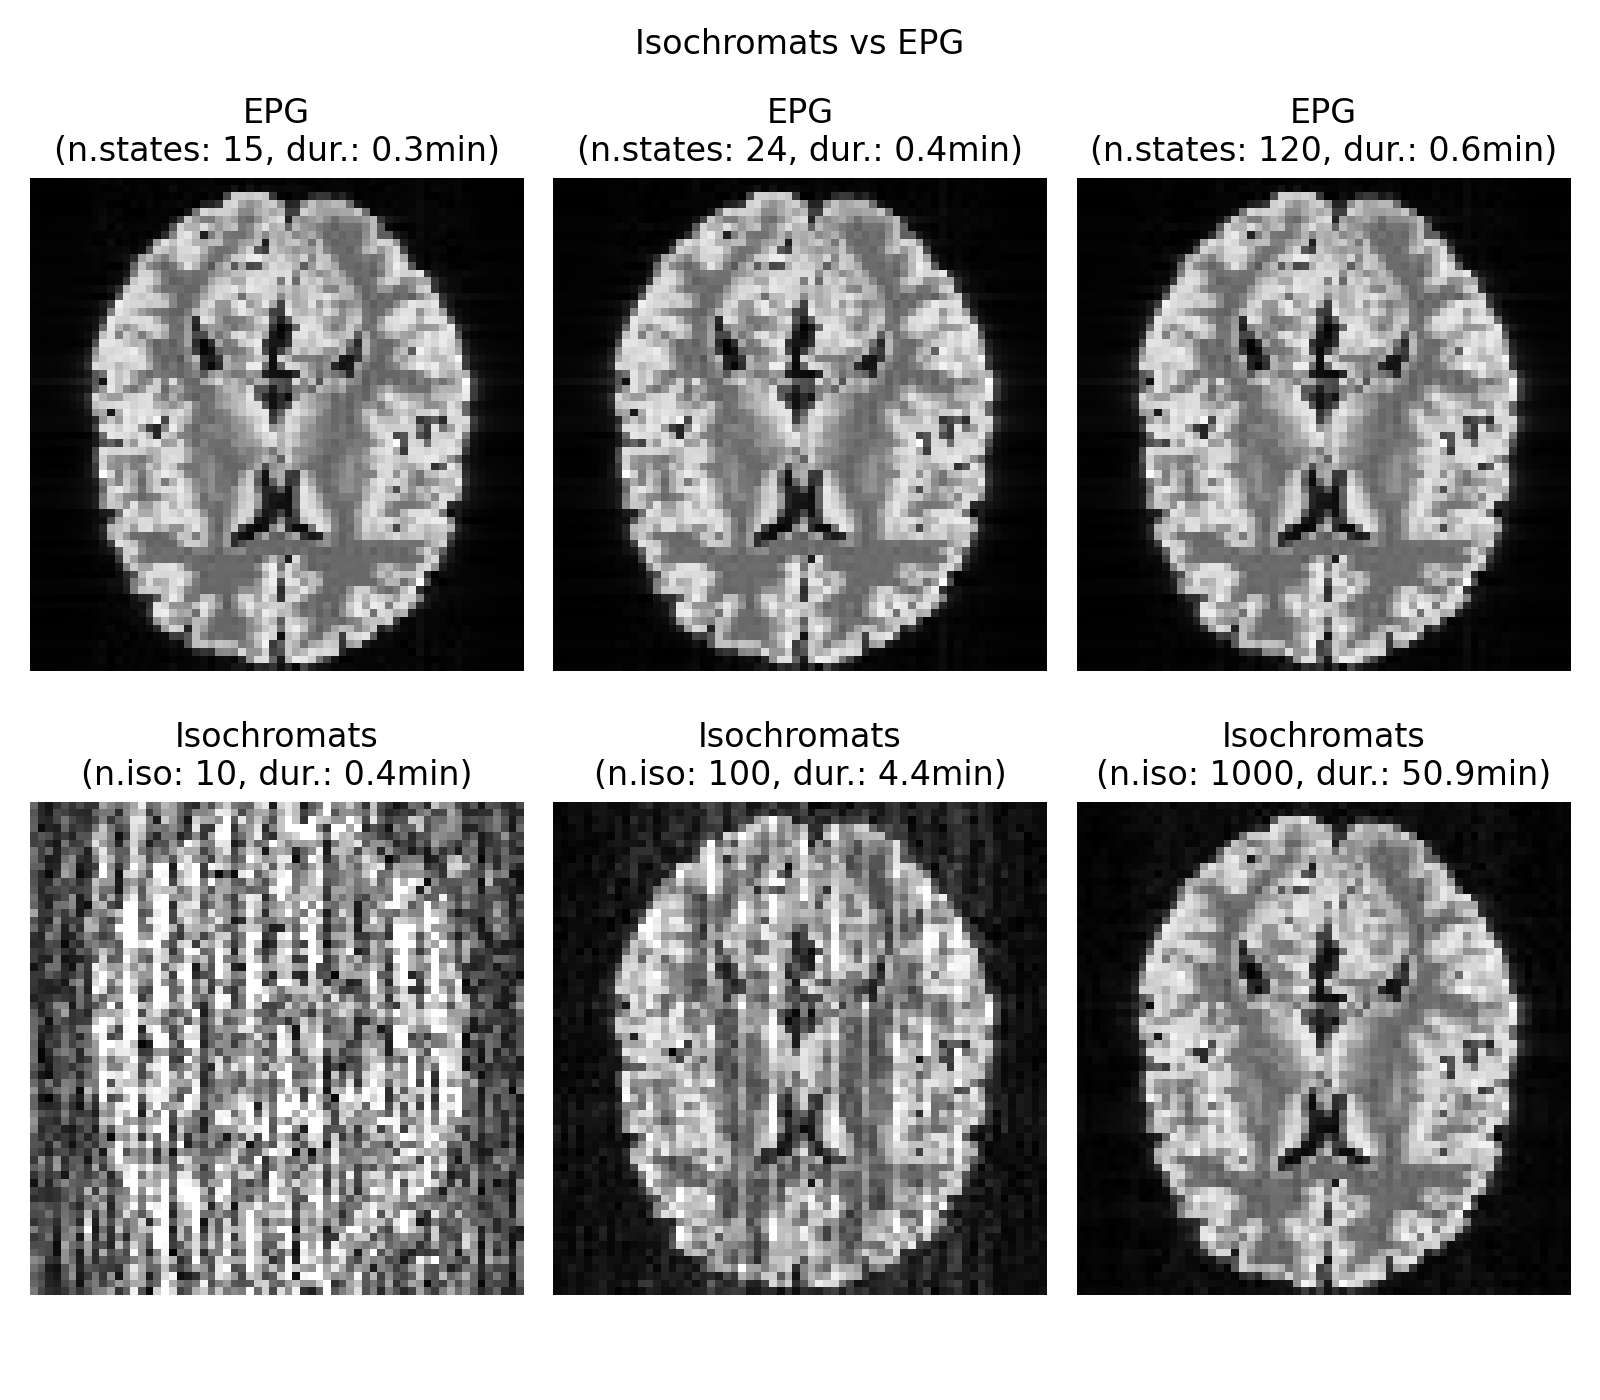
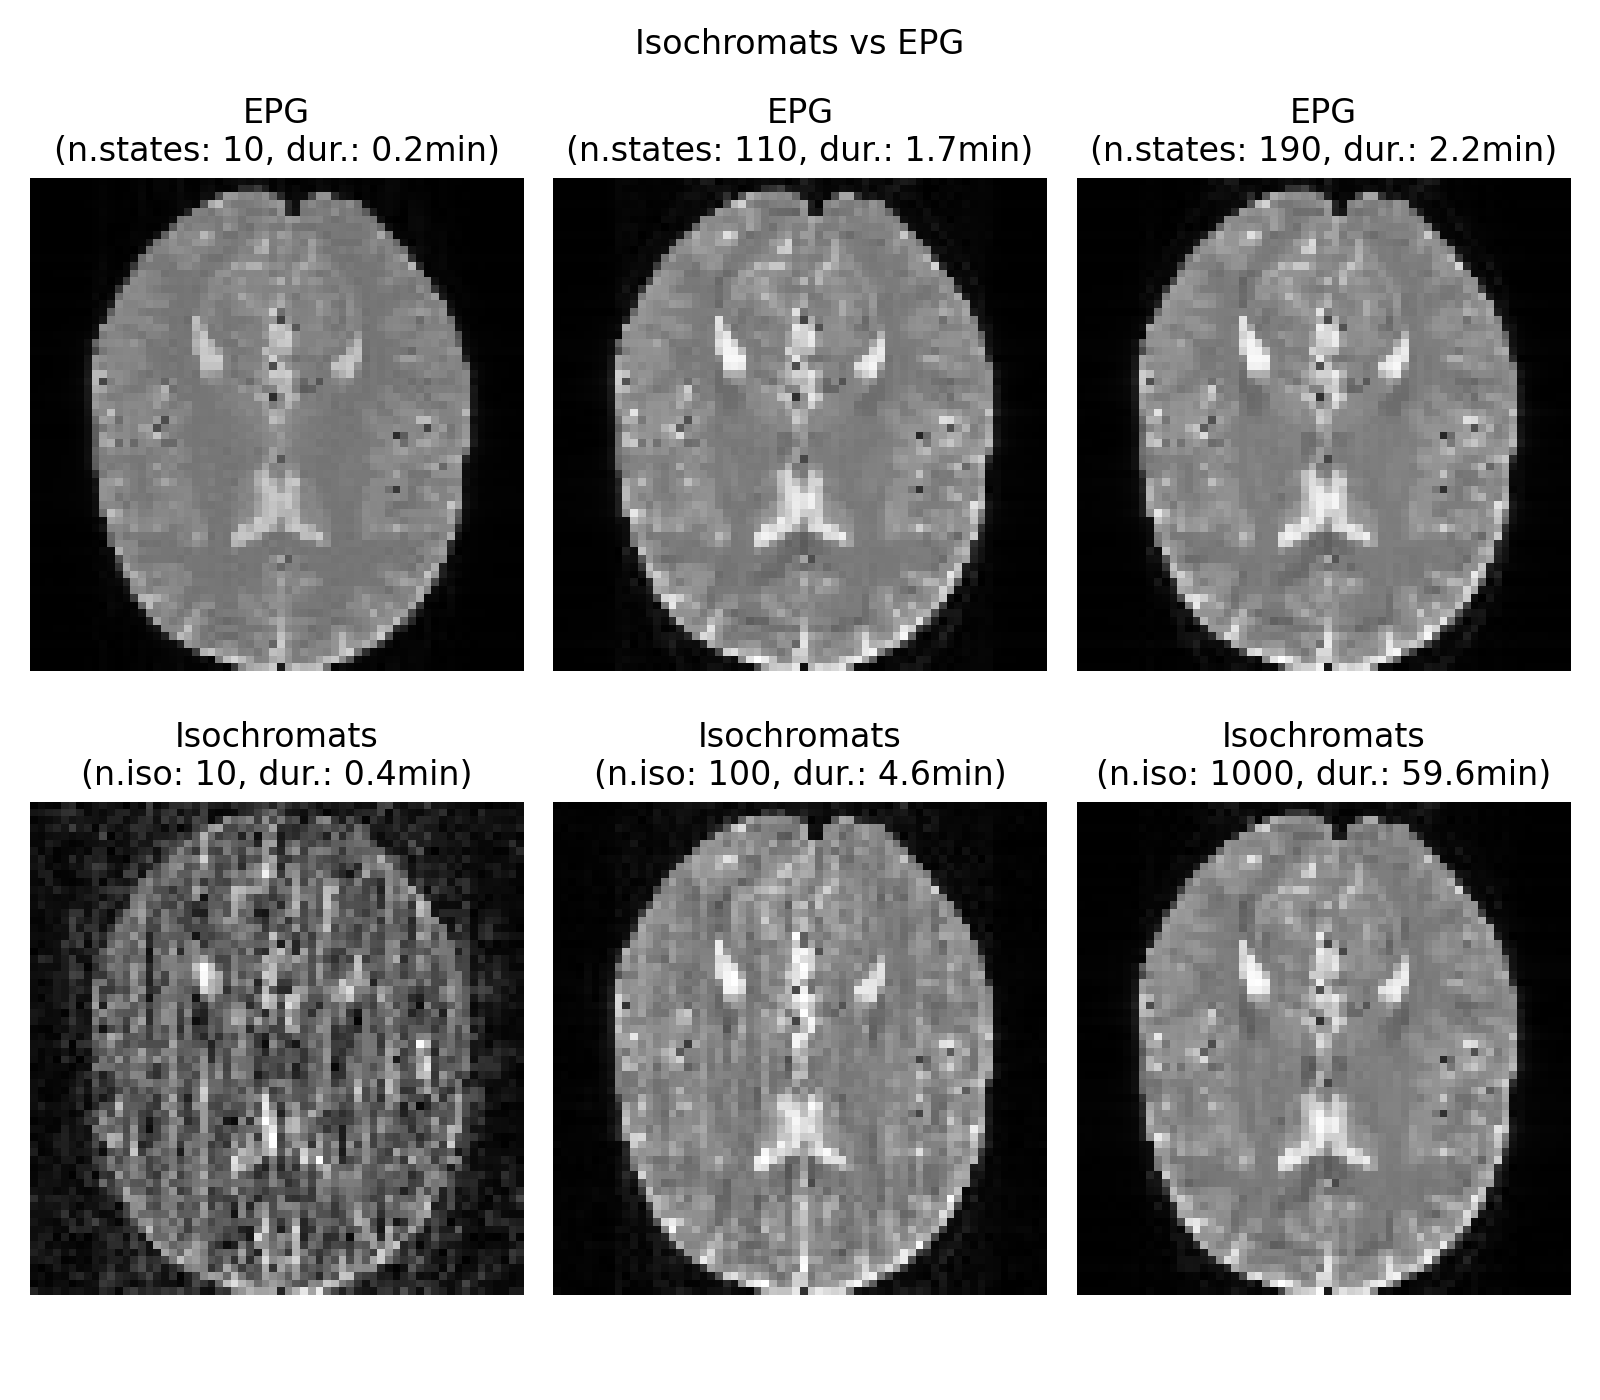
update examples/gradient

diff --git a/examples/gradient/isochromats_vs_epg_2d.py b/examples/gradient/isochromats_vs_epg_2d.py
@@ -1,20 +1,3 @@
-"""
-Simulation of a 64x64 brain phantom with readout and phase encoding gradients.
-We compare EPG + arbitrary gradients with isochromats simulations.
-(Note: the isochromats simulation may take a while)
-
-This is an attempt at implementing the brain phantom simulation from:
-    Endres, Jonathan, Simon Weinmüller, Hoai Nam Dang, et Moritz Zaiss. 
-    « Phase Distribution Graphs for Fast, Differentiable, and Spatially Encoded Bloch Simulations of Arbitrary MRI Sequences ». 
-    Magnetic Resonance in Medicine 92, nᵒ 3 (2024): 1189‑1204. 
-    https://doi.org/10.1002/mrm.30055.
-
-Brain phantom:
-    Colin 27 Average Brain 2008
-    Copyright (C) 1993–2009 Louis Collins, McConnell Brain Imaging Centre, Montreal Neurological Institute, McGill University.
-    https://nist.mni.mcgill.ca/category/atlas/
-"""
-
 import pathlib
 import time
 import numpy as np
@@ -26,6 +9,12 @@ NAX = np.newaxis
 random = np.random #.RandomState(0)
 
 # brain phantom
+"""
+Source:
+    Colin 27 Average Brain 2008
+    Copyright (C) 1993–2009 Louis Collins, McConnell Brain Imaging Centre, Montreal Neurological Institute, McGill University.
+    https://nist.mni.mcgill.ca/category/atlas/
+"""
 HERE = pathlib.Path(__file__).parent
 wm, gm, csf = np.load(HERE / 'brain.npy')
 
@@ -38,7 +27,7 @@ csf = ndimage.zoom(csf, zoom)
 mask = np.max([wm, gm, csf], axis=0) > 1e-5
 
 # acquisition
-FA = 60 # degrees
+FA = 30 # degrees
 TR = 10 # ms
 FOV = 200e-3 # m
 nread, nphase = mask.shape
@@ -60,11 +49,12 @@ print('EPG')
 # set proton density and T2* decay
 init = epg.System(weights=pds, modulation=-1/np.array(T2p))
 # rf pulse and ADC with phase offset
-rf = [epg.T(FA, 117 * i * (i + 1)/2) for i in range(nphase)]
+rf = [epg.T(FA, 0)] * nphase
+# rf = [epg.T(FA, 117 * i * (i + 1)/2) for i in range(nphase)] # rf spoiling
 adc = [epg.Imaging(pixels, voxel_size=pixsize, phase=-rf[i].phi) for i in range(nphase)]
 # T1/T2 and time accumulation (for T2* and B0)
-rlx = epg.E(TR, T1, T1)
-rlx *= epg.C(TR) # time accumulation
+rlx = epg.E(TR/nread, T1, T2)
+rlx *= epg.C(TR/nread) # time accumulation
 # readout gradient 
 kx = np.array([2 * np.pi / FOV, 0]) # rad/m
 gxpre = epg.S(-kx * nread/2)
@@ -78,11 +68,11 @@ gp2 = [epg.S(-kp * i) if i !=0 else epg.NULL for i in range(-nphase//2, nphase//
 seq = [init] + [[rf[i], gxpre, gp1[i]] + [adc[i], rlx, gx] * nread + [gxspl, gp2[i]] for i in range(nphase)]
 # simulate
 sig_epg, time_epg = {}, {}
-for tol in [5e-2, 1e-2, 1e-8]:
+for tol in [1e-1, 1e-2, 1e-8]:
     print(f'EPG with tol={tol}')
     tic = time.time()
     # also return number of phase states
-    kspace, nstates = epg.simulate(seq, prune=tol, kgrid=1, disp=True, probe=(None, 'nstate'))
+    kspace, nstates = epg.simulate(seq, prune=tol, kgrid=0.1, disp=True, probe=(None, 'nstate'))
     duration = time.time() - tic
     # FFT
     sig = np.fft.fftshift(np.fft.fft2(kspace.reshape(nphase, nread))) / nread
@@ -104,11 +94,12 @@ for niso in [10, 100, 1000]:
     # set proton density
     init = epg.PD(pds)
     # rf pulse and ADC with phase offset
-    rf = [epg.T(FA, 117 * i * (i + 1)/2) for i in range(nphase)]
+    rf = [epg.T(FA, 0)] * nphase
+    # rf = [epg.T(FA, 117 * i * (i + 1)/2) for i in range(nphase)] # rf spoiling
     adc = [epg.Adc(reduce=True, phase=-rf[i].phi) for i in range(nphase)]
     # T1/T2/T2 (3 x 1 x niso)
-    rlx = epg.E(TR, T1, T1)
-    rlx *= epg.P(TR, 1/np.reshape(T2p, (3, 1, 1)) * omega) # T2' 
+    rlx = epg.E(TR/nread, T1, T2)
+    rlx *= epg.P(TR/nread, 1/np.reshape(T2p, (3, 1, 1)) * omega) # T2' 
     # gradients (2 x 1 x npix x niso)
     g = (pixels + iso[:, NAX]).T[:, NAX] / FOV # (num cycles)
     # readout gradient
@@ -132,8 +123,8 @@ for niso in [10, 100, 1000]:
 
 #
 # plot
-max_iso = max(sig_iso)
-vmin, vmax = [func(np.abs(sig_iso[max_iso])) for func in (np.min, np.max)]
+max_epg = sig_epg[max(sig_epg)]
+vmin, vmax = [func(np.abs(max_epg)) for func in (np.min, np.max)]
 fig, axes = plt.subplots(nrows=2, ncols=3, num='iso-vs-epg-2d', figsize=(8,7))
 for i, nstate in enumerate(sig_epg):
     plt.sca(axes[0, i])
@@ -147,5 +138,6 @@ for i, niso in enumerate(sig_iso):
     plt.axis('off')
 plt.suptitle(f'Isochromats vs EPG')
 plt.tight_layout()
-plt.show()
+# plt.show()
+plt.savefig(fig.get_label() + '.png', dpi=200)
 

diff --git a/examples/gradient/isochromats_vs_epg_1d.py b/examples/gradient/isochromats_vs_epg_1d.py
@@ -1,7 +1,3 @@
-"""
-A simple 1D readout simulation example to compare EPG with arbitrary gradients and isochromats/Bloch.
-"""
-
 import numpy as np
 import epgpy as epg
 from matplotlib import pyplot as plt
